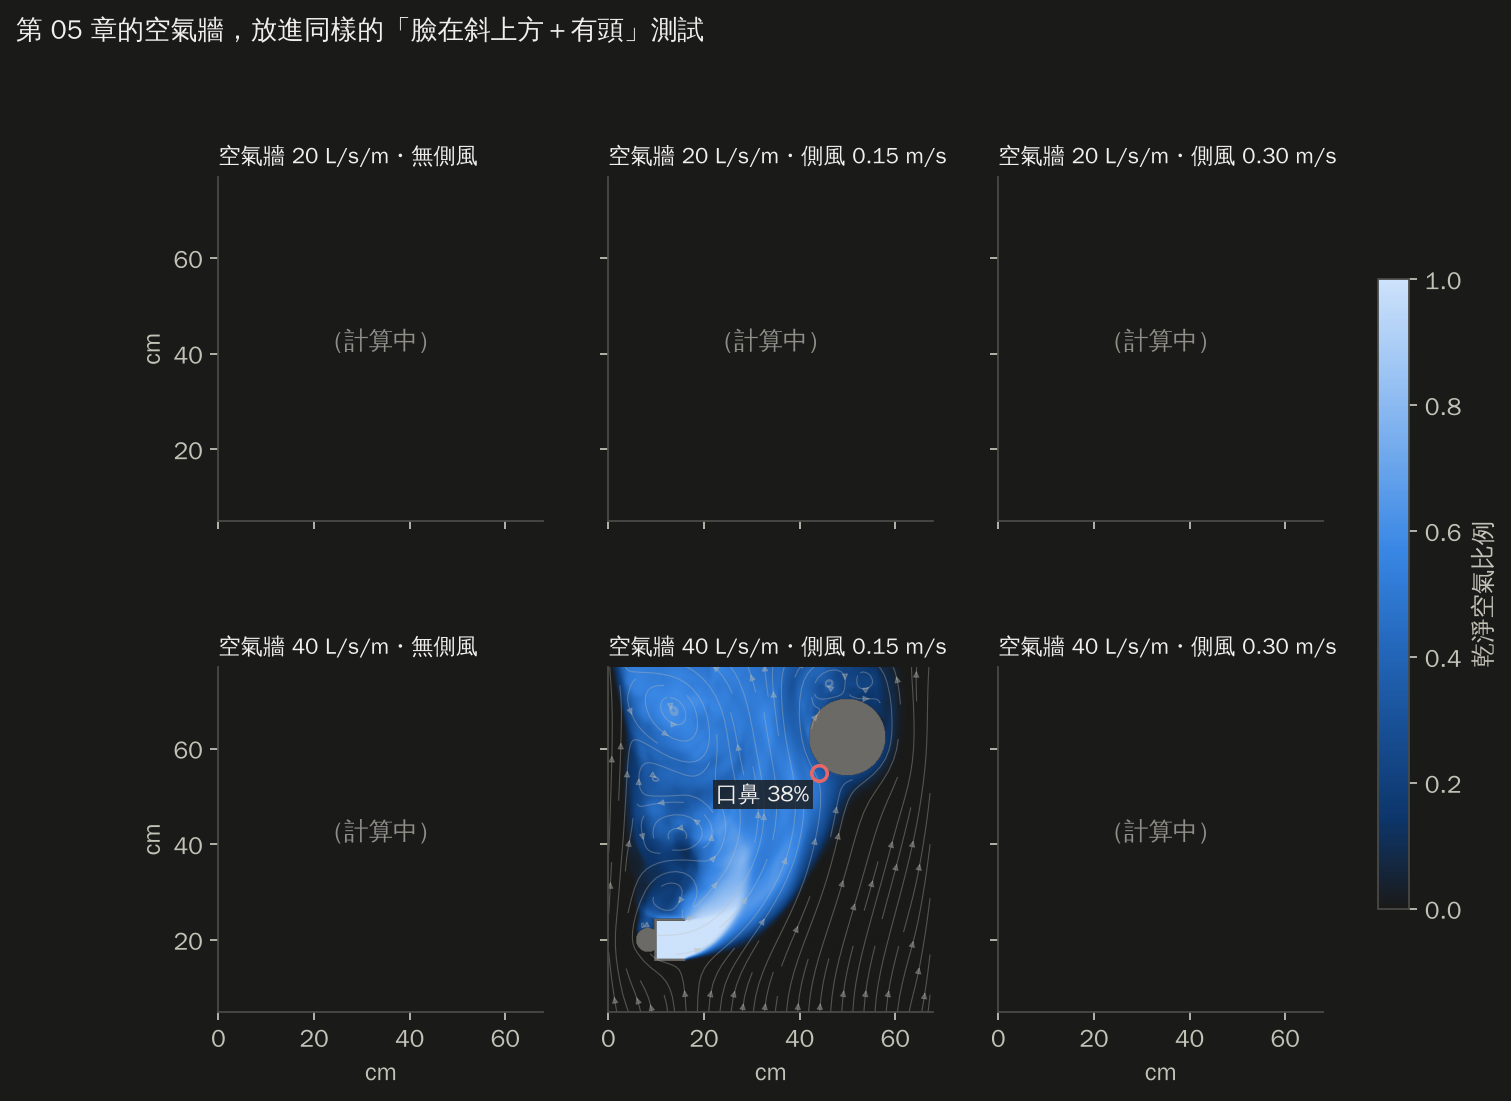
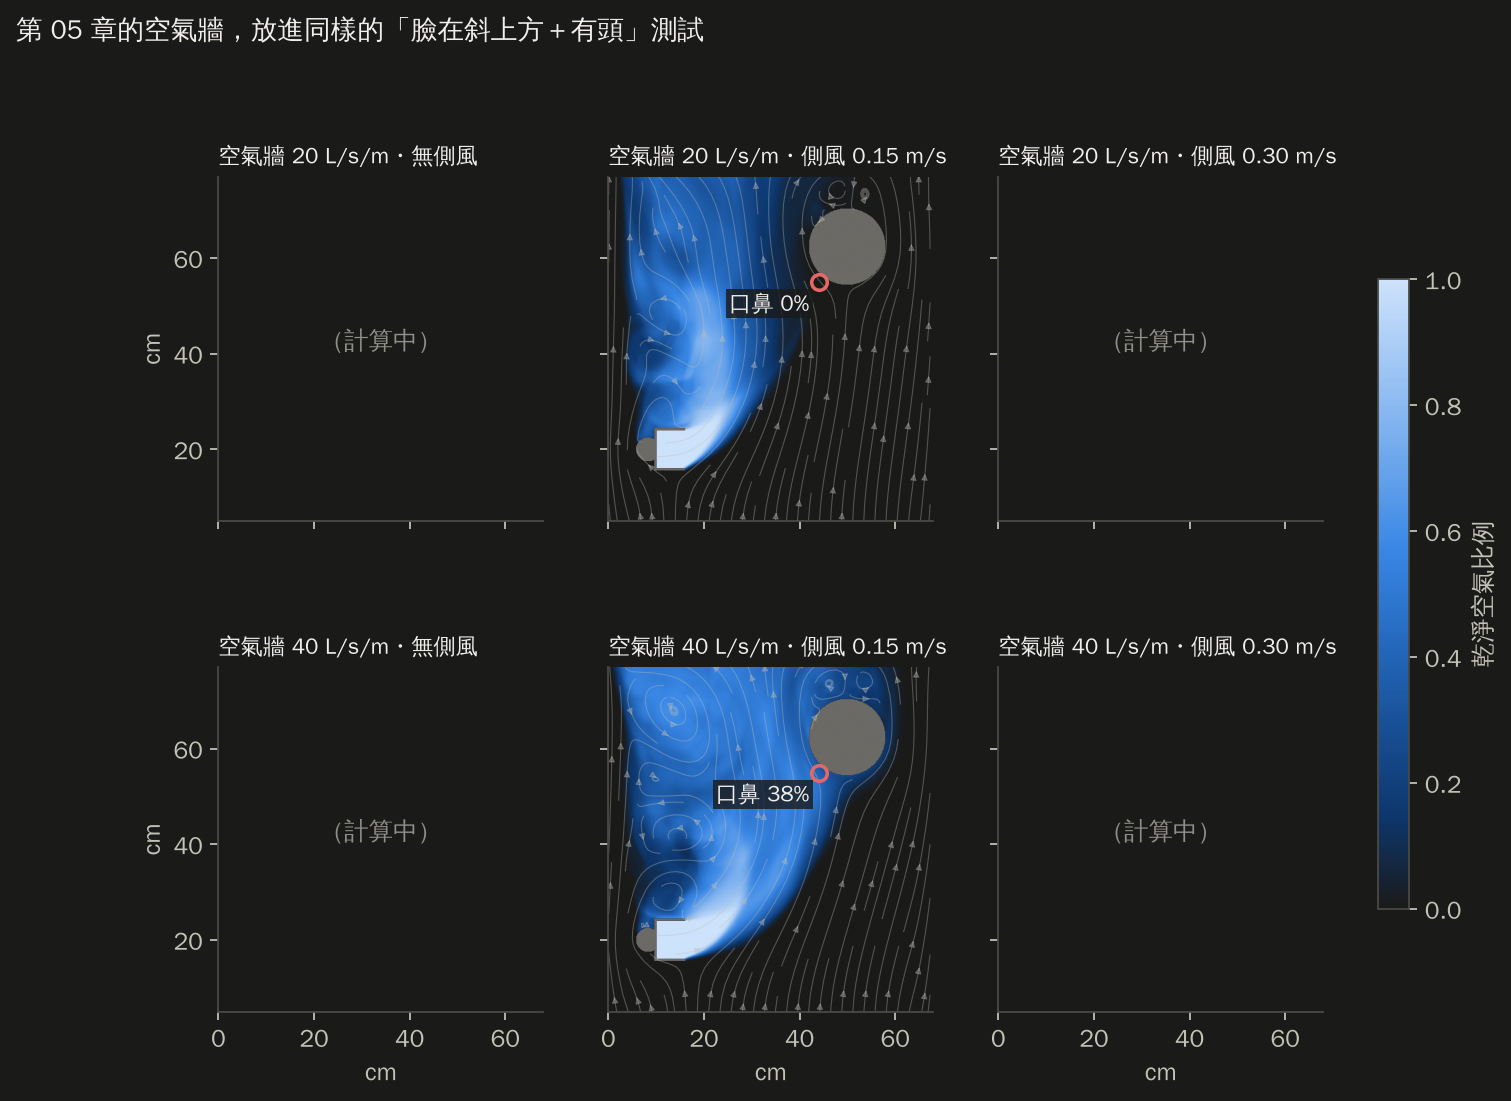
Face-above: 11/18 results (W20, crossflow 0.15)
Claude-Session: https://claude.ai/code/session_01CLMVR9XzZXdsSKCMSLUbBG

Changed region(s): [[0.4044, 0.1544, 0.6221, 0.4632]]

diff --git a/stairwell-airflow-sim/report/index.html b/stairwell-airflow-sim/report/index.html
@@ -173,7 +173,7 @@ footer { margin-top: 48px; padding-top: 20px; border-top: 1px solid var(--line);
   <h1>扶手送風模擬報告</h1>
   <p class="question">一根貫穿整棟樓的扶手，平時能不能流通、淨化空氣？火災時能幫逃生者做到什麼？用電腦模擬一項一項檢查。</p>
   <div class="meta"><span>日期 <b>2026-10-19</b></span><span>專案 <b>長庚大學工業設計學系 林煜宸</b></span><span>模擬與撰寫 <b>Claude（AI）</b></span></div>
-  <div class="progress" role="status"><p>臉在斜上方的出風口重算：已完成 10/18 組，整體約 55%，預計台灣時間 <b>23:58</b> 前後完成</p><div class="bar" aria-hidden="true"><span style="width:54.6%"></span></div><div class="chips"><span class="chip chip-run"><b>B 康達往上</b>・無側風　21%</span><span class="chip chip-done"><b>B 康達往上</b>・側風 0.15　完成</span><span class="chip chip-done"><b>B 康達往上</b>・側風 0.30　完成</span><span class="chip chip-done"><b>A 一般</b>・側風 0.30　完成</span><span class="chip chip-done"><b>C 低混合</b>・側風 0.30　完成</span><span class="chip chip-done"><b>D 倍增</b>・側風 0.30　完成</span><span class="chip chip-done"><b>A 一般</b>・無側風　完成</span><span class="chip chip-done"><b>A 一般</b>・側風 0.15　完成</span><span class="chip chip-run"><b>D 倍增</b>・無側風　0%</span><span class="chip chip-done"><b>D 倍增</b>・側風 0.15　完成</span><span class="chip chip-done"><b>C 低混合</b>・側風 0.15　完成</span><span class="chip chip-wait"><b>C 低混合</b>・無側風　排隊中</span><span class="chip chip-done"><b>W 空氣牆 40</b>・側風 0.15　完成</span><span class="chip chip-run"><b>W 空氣牆 20</b>・側風 0.15　72%</span><span class="chip chip-run"><b>W 空氣牆 40</b>・側風 0.30　32%</span><span class="chip chip-wait"><b>W 空氣牆 20</b>・側風 0.30　排隊中</span><span class="chip chip-wait"><b>W 空氣牆 40</b>・無側風　排隊中</span><span class="chip chip-wait"><b>W 空氣牆 20</b>・無側風　排隊中</span></div><p class="muted small">進度在每次更新報告時重新計算（最後更新：台灣時間 10/19 23:01）。</p></div>
+  <div class="progress" role="status"><p>臉在斜上方的出風口重算：已完成 11/18 組，整體約 58%，預計台灣時間 <b>23:58</b> 前後完成</p><div class="bar" aria-hidden="true"><span style="width:57.8%"></span></div><div class="chips"><span class="chip chip-run"><b>B 康達往上</b>・無側風　27%</span><span class="chip chip-done"><b>B 康達往上</b>・側風 0.15　完成</span><span class="chip chip-done"><b>B 康達往上</b>・側風 0.30　完成</span><span class="chip chip-done"><b>A 一般</b>・側風 0.30　完成</span><span class="chip chip-done"><b>C 低混合</b>・側風 0.30　完成</span><span class="chip chip-done"><b>D 倍增</b>・側風 0.30　完成</span><span class="chip chip-done"><b>A 一般</b>・無側風　完成</span><span class="chip chip-done"><b>A 一般</b>・側風 0.15　完成</span><span class="chip chip-run"><b>D 倍增</b>・無側風　12%</span><span class="chip chip-done"><b>D 倍增</b>・側風 0.15　完成</span><span class="chip chip-done"><b>C 低混合</b>・側風 0.15　完成</span><span class="chip chip-run"><b>C 低混合</b>・無側風　0%</span><span class="chip chip-done"><b>W 空氣牆 40</b>・側風 0.15　完成</span><span class="chip chip-done"><b>W 空氣牆 20</b>・側風 0.15　完成</span><span class="chip chip-run"><b>W 空氣牆 40</b>・側風 0.30　44%</span><span class="chip chip-wait"><b>W 空氣牆 20</b>・側風 0.30　排隊中</span><span class="chip chip-wait"><b>W 空氣牆 40</b>・無側風　排隊中</span><span class="chip chip-wait"><b>W 空氣牆 20</b>・無側風　排隊中</span></div><p class="muted small">進度在每次更新報告時重新計算（最後更新：台灣時間 10/19 23:04）。</p></div>
 </header>
 <nav class="toc" aria-label="章節">
   <a href="#summary">一頁看懂</a><a href="#method">怎麼測的</a><a href="#daily">平時：新風帶</a><a href="#fire">火災：守護路線</a>
@@ -445,16 +445,16 @@ footer { margin-top: 48px; padding-top: 20px; border-top: 1px solid var(--line);
 
 <section id="nozzle">
   <h2><span class="no">04</span>四種出風口比一比（臉在扶手斜上方）</h2>
-  <p class="oneliner">臉在扶手斜上方時（已完成 10/18 組），目前口鼻乾淨空氣最高的是 W 空氣牆 40 L/s/m（側風 0.15）：38%。</p>
+  <p class="oneliner">臉在扶手斜上方時（已完成 11/18 組），目前口鼻乾淨空氣最高的是 W 空氣牆 40 L/s/m（側風 0.15）：38%。</p>
   <figure class="fig render"><img class="img-any" src="assets/render_nozzles.webp" alt="四種扶手側面出風口形式比較" loading="lazy"><figcaption>四種出風口的造型構想（設計渲染圖）。圖中文字是設計構想，實際結果以下方模擬為準。</figcaption></figure>
   <figure class="fig"><img class="img-light" src="assets/s2f_saf_bars.png" alt="臉在斜上方時四種出風口的乾淨空氣比例" loading="lazy"><img class="img-dark" src="assets/s2f_saf_bars_dark.png" alt="臉在斜上方時四種出風口的乾淨空氣比例" loading="lazy"><figcaption>每條橫條代表 100% 的吸入空氣，彩色部分是來自出風口的乾淨空氣。黑色短線是最差 10% 的時刻。</figcaption></figure>
   <div class="points prose">
 <p><b>為什麼重算：</b>人扶著內側扶手下樓時，臉在扶手的<b>斜上方</b>，不是正前方。這組把口鼻放在出風口往樓梯側 28 cm、往上 35 cm（距離約 45 cm、仰角約 51°）；A、C、D 出風口改成朝向口鼻，B 改用藏在底面、往上轉的康達出風口。每公尺送風量都是 5 L/s，網格 1.5 mm。<span class="tag tag-sim">模擬結果</span></p>
-<div class="table-wrap"><table><thead><tr><th scope="col">出風口</th><th scope="col">無側風</th><th scope="col">側風 0.15</th><th scope="col">側風 0.30</th></tr></thead><tbody><tr><th scope="row">A 一般定向</th><td class="num">18%</td><td class="num">0%</td><td class="num">0%</td></tr><tr><th scope="row">B 康達往上</th><td class="num">計算中</td><td class="num">0%</td><td class="num">0%</td></tr><tr><th scope="row">C 低混合同軸</th><td class="num">計算中</td><td class="num">0%</td><td class="num">0%</td></tr><tr><th scope="row">D 氣流倍增</th><td class="num">計算中</td><td class="num">0%</td><td class="num">0%</td></tr><tr><th scope="row">W 空氣牆 20 L/s/m</th><td class="num">計算中</td><td class="num">計算中</td><td class="num">計算中</td></tr><tr><th scope="row">W 空氣牆 40 L/s/m</th><td class="num">計算中</td><td class="num">38%</td><td class="num">計算中</td></tr></tbody></table></div>
+<div class="table-wrap"><table><thead><tr><th scope="col">出風口</th><th scope="col">無側風</th><th scope="col">側風 0.15</th><th scope="col">側風 0.30</th></tr></thead><tbody><tr><th scope="row">A 一般定向</th><td class="num">18%</td><td class="num">0%</td><td class="num">0%</td></tr><tr><th scope="row">B 康達往上</th><td class="num">計算中</td><td class="num">0%</td><td class="num">0%</td></tr><tr><th scope="row">C 低混合同軸</th><td class="num">計算中</td><td class="num">0%</td><td class="num">0%</td></tr><tr><th scope="row">D 氣流倍增</th><td class="num">計算中</td><td class="num">0%</td><td class="num">0%</td></tr><tr><th scope="row">W 空氣牆 20 L/s/m</th><td class="num">計算中</td><td class="num">0%</td><td class="num">計算中</td></tr><tr><th scope="row">W 空氣牆 40 L/s/m</th><td class="num">計算中</td><td class="num">38%</td><td class="num">計算中</td></tr></tbody></table></div>
 <p><b>目前看到的現象（8 組有側風的結果）：</b>有側風時，出風口吹出的乾淨空氣一離開扶手，就被由下往上的氣流帶著<b>貼著扶手正上方往上走</b>，到不了往樓梯側 28 cm 外的臉，口鼻都是 0%。B 康達往上確實有沿圓角轉向上（下面的圖看得到深藍色貼著導風腔轉彎），但轉上去之後一樣直直往上，沒有往臉的方向偏。<span class="tag tag-sim">模擬結果</span></p>
 <p><b>加算空氣牆：</b>先算完的幾組顯示，每公尺 5 L/s 的出風口在有側風時送不到斜上方的臉。所以把第 05 章表現最好的空氣牆（寬 80 mm、每公尺 20 或 40 L/s、水平往樓梯側吹）也放進同一個「臉在斜上方＋有頭」的測試，共 6 組，表格最後兩列。<span class="tag tag-sim">模擬結果</span></p>
 <p><b>無側風要算久一點：</b>沒有側風時氣流很慢，乾淨空氣要好幾秒才飄到臉旁。先算的 10 秒版本裡，B、C、D 的口鼻數值還在一路往上爬（B 從 0% 爬到 12%、C 從 15% 爬到 46%、D 從 0% 爬到 36%），代表還沒穩定，所以無側風的 B、C、D 和空氣牆延長到 24 秒重算，取後 16 秒平均。A 的 10 秒版本前後半段差不多（19%／18%），已經穩定。<span class="tag tag-sim">模擬結果</span></p>
-<p class="muted">已完成 10/18 組，其餘計算中；每完成一批就會更新。</p></div>
+<p class="muted">已完成 11/18 組，其餘計算中；每完成一批就會更新。</p></div>
   <figure class="fig"><img class="img-light" src="assets/s2f_vc00_fields.png" alt="臉在斜上方、無側風" loading="lazy"><img class="img-dark" src="assets/s2f_vc00_fields_dark.png" alt="臉在斜上方、無側風" loading="lazy"><figcaption>無側風：紅圈是口鼻位置，顏色越深代表出風口的空氣越多。</figcaption></figure>
   <figure class="fig"><img class="img-light" src="assets/s2f_vc15_fields.png" alt="臉在斜上方、側風 0.15 m/s" loading="lazy"><img class="img-dark" src="assets/s2f_vc15_fields_dark.png" alt="臉在斜上方、側風 0.15 m/s" loading="lazy"><figcaption>側風 0.15 m/s（由下往上）。</figcaption></figure>
   <figure class="fig"><video src="assets/s2f_vc15.mp4" controls muted loop playsinline preload="metadata"></video><figcaption>動畫（臉在斜上方、側風 0.15 m/s）。每格 0.08 秒。</figcaption></figure>
